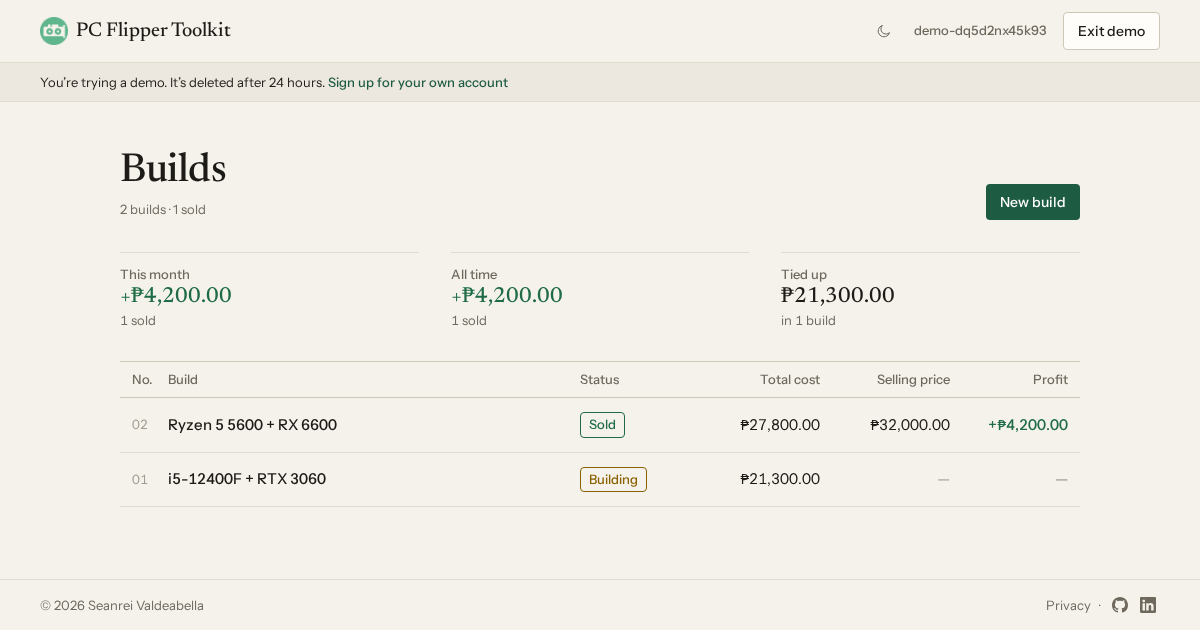
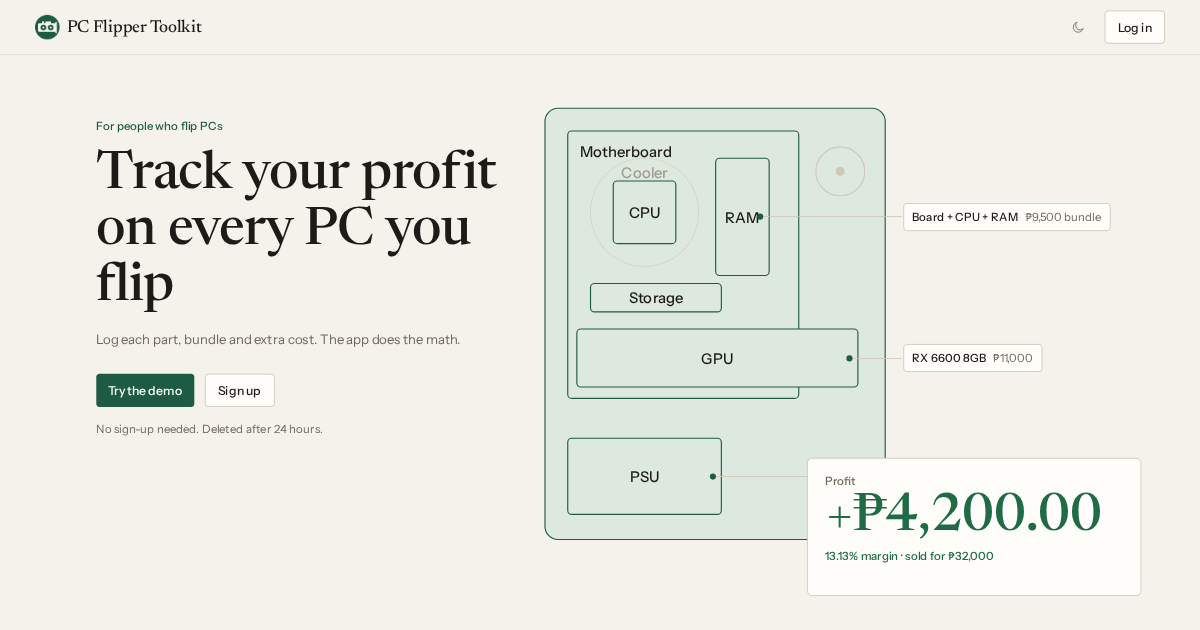
feat(share): show the landing page on the share card, in its words (#124)
Commits:
- feat(share): show the landing page on the share card, in its words

diff --git a/frontend/index.html b/frontend/index.html
@@ -3,8 +3,18 @@
   <head>
     <meta charset="UTF-8" />
     <!-- The tab follows the browser's theme, not the header button. -->
-    <link rel="icon" type="image/png" href="/logo-light.png" media="(prefers-color-scheme: light)" />
-    <link rel="icon" type="image/png" href="/logo-dark.png" media="(prefers-color-scheme: dark)" />
+    <link
+      rel="icon"
+      type="image/png"
+      href="/logo-light.png"
+      media="(prefers-color-scheme: light)"
+    />
+    <link
+      rel="icon"
+      type="image/png"
+      href="/logo-dark.png"
+      media="(prefers-color-scheme: dark)"
+    />
     <meta name="viewport" content="width=device-width, initial-scale=1.0" />
     <link rel="preconnect" href="https://fonts.googleapis.com" />
     <link rel="preconnect" href="https://fonts.gstatic.com" crossorigin />
@@ -19,14 +29,17 @@
          JavaScript, so every URL gets these; URLs must be absolute. -->
     <meta
       name="description"
-      content="Track the profit on every PC you flip: parts, extra costs, selling price and true profit. Try the demo, no sign-up needed."
+      content="For people who flip PCs. Log each part, bundle and extra cost, and the app does the math. Try the demo, no sign-up needed."
     />
     <meta property="og:type" content="website" />
     <meta property="og:site_name" content="PC Flipper Toolkit" />
-    <meta property="og:title" content="PC Flipper Toolkit" />
+    <meta
+      property="og:title"
+      content="PC Flipper Toolkit · Track your profit on every PC you flip"
+    />
     <meta
       property="og:description"
-      content="Track the profit on every PC you flip: parts, extra costs, selling price and true profit. Try the demo, no sign-up needed."
+      content="For people who flip PCs. Log each part, bundle and extra cost, and the app does the math. Try the demo, no sign-up needed."
     />
     <meta property="og:url" content="https://pc-flipper-toolkit.vercel.app/" />
     <meta
@@ -37,7 +50,7 @@
     <meta property="og:image:height" content="630" />
     <meta
       property="og:image:alt"
-      content="The builds list: each PC build with its status, cost, selling price and profit"
+      content="The landing page: “Track your profit on every PC you flip”, beside a sold build’s parts in its case and +₱4,200.00 profit"
     />
     <script>
       // The theme picked with the header button, applied before first paint (no flash).
@@ -49,7 +62,12 @@
     </script>
     <!-- The site's name in Google's results. Data, not a script: the CSP needs no hash. -->
     <script type="application/ld+json">
-      {"@context":"https://schema.org","@type":"WebSite","name":"PC Flipper Toolkit","url":"https://pc-flipper-toolkit.vercel.app/"}
+      {
+        "@context": "https://schema.org",
+        "@type": "WebSite",
+        "name": "PC Flipper Toolkit",
+        "url": "https://pc-flipper-toolkit.vercel.app/"
+      }
     </script>
   </head>
   <body>

diff --git a/frontend/src/csp.test.ts b/frontend/src/csp.test.ts
@@ -68,7 +68,9 @@ test("index.html has the share card's tags and its 1200×630 image", () => {
   expect(line.length).toBeLessThan(155);
   expect(line).toMatch(/Try the demo, no sign-up needed\.$/);
   expect(meta("property", "og:description")).toBe(line);
-  expect(meta("property", "og:title")).toBe("PC Flipper Toolkit");
+  expect(meta("property", "og:title")).toBe(
+    "PC Flipper Toolkit · Track your profit on every PC you flip",
+  );
   expect(meta("property", "og:type")).toBe("website");
   expect(meta("property", "og:url")).toBe(site);
   expect(meta("property", "og:image")).toBe(`${site}og-image.png`);

diff --git a/frontend/src/pages/Landing.tsx b/frontend/src/pages/Landing.tsx
@@ -20,7 +20,7 @@ const profit = formatSignedMoney(SOLD_BUILD.totals.profit);
 export function Landing() {
   return (
     <main>
-      <title>{`${SITE_NAME} · Track the profit on every PC you flip`}</title>
+      <title>{`${SITE_NAME} · Track your profit on every PC you flip`}</title>
       <link rel="canonical" href={`${SITE_URL}/`} />
 
       <div className="mx-auto max-w-[1280px] px-4 md:px-16">

diff --git a/frontend/src/titles.test.tsx b/frontend/src/titles.test.tsx
@@ -45,7 +45,7 @@ const canonicals = () =>
   );
 
 test.each([
-  ["/", "PC Flipper Toolkit · Track the profit on every PC you flip"],
+  ["/", "PC Flipper Toolkit · Track your profit on every PC you flip"],
   ["/login", "Log in · PC Flipper Toolkit"],
   ["/signup", "Sign up · PC Flipper Toolkit"],
   ["/privacy", "Privacy · PC Flipper Toolkit"],

diff --git a/docs/specs/share-card.md b/docs/specs/share-card.md
@@ -37,17 +37,17 @@ stays the source of truth for everything else. Intent confirmed in conversation 
 ### Tags (`frontend/index.html`, in `<head>`, after `<title>`)
 
 ```html
-<meta name="description" content="Track the profit on every PC you flip: parts, extra costs, selling price and true profit. Try the demo, no sign-up needed." />
+<meta name="description" content="For people who flip PCs. Log each part, bundle and extra cost, and the app does the math. Try the demo, no sign-up needed." />
 <link rel="canonical" href="https://pc-flipper-toolkit.vercel.app/" />
 <meta property="og:type" content="website" />
 <meta property="og:site_name" content="PC Flipper Toolkit" />
-<meta property="og:title" content="PC Flipper Toolkit" />
+<meta property="og:title" content="PC Flipper Toolkit · Track your profit on every PC you flip" />
 <meta property="og:description" content="(the same line as the description)" />
 <meta property="og:url" content="https://pc-flipper-toolkit.vercel.app/" />
 <meta property="og:image" content="https://pc-flipper-toolkit.vercel.app/og-image.png" />
 <meta property="og:image:width" content="1200" />
 <meta property="og:image:height" content="630" />
-<meta property="og:image:alt" content="The builds list: each PC build with its status, cost, selling price and profit" />
+<meta property="og:image:alt" content="The landing page: “Track your profit on every PC you flip”, beside a sold build’s parts in its case and +₱4,200.00 profit" />
 ```
 
 - **The line** is under 155 characters, so Google doesn't cut it, and it ends on "Try the
@@ -63,11 +63,14 @@ stays the source of truth for everything else. Intent confirmed in conversation 
 
 - 1200×630 PNG, under 1 MB (LinkedIn and Facebook both accept it; Messenger uses Facebook's
   copy).
-- A fresh screenshot, not the README's (that one is from 2026-10-27, before the summary, the
-  header logo and the row inset): the builds list of a demo account, light theme, taken at a
-  1200×630 viewport, so nothing needs cropping or scaling.
-- The demo's two sample builds and the summary are visible; nothing personal (a demo
-  username like `demo-…` in the header is fine).
+- **Since 2026-11-21: the landing page's first screen** (it was the builds list), so the card
+  shows what a visitor lands on. Logged out, light theme: the heading, the line, Try the demo
+  and the case with the sold build's parts and its profit.
+- Taken from the running app, not drawn: the page at 1371×720 (the 1200×630 shape at the
+  page's 720px design height, so the hero isn't stacked) with a device scale of 1200/1371, so
+  the PNG comes out at 1200×630 with nothing cropped. Retake it when the hero changes.
+- **The words** follow the landing page: its title for `og:title`, and its label and line,
+  ending on the demo, for the description.
 
 ### `frontend/public/robots.txt`
 

diff --git a/docs/specs/landing-page.md b/docs/specs/landing-page.md
@@ -45,7 +45,7 @@ confirmed in conversation on 2026-11-21. Replaces two backlog entries ("A landin
 
 | Path | Title | Indexed |
 |---|---|---|
-| `/` logged out | `PC Flipper Toolkit · Track the profit on every PC you flip` | yes, canonical `/` |
+| `/` logged out | `PC Flipper Toolkit · Track your profit on every PC you flip` | yes, canonical `/` |
 | `/` logged in | `Builds · PC Flipper Toolkit` | (Google is never logged in) |
 | `/builds/:id` | `<build name> · PC Flipper Toolkit` | no |
 | `/privacy` | `Privacy · PC Flipper Toolkit` | yes, canonical `/privacy` |
@@ -102,8 +102,8 @@ changes often.)
 
 ### GitHub and Search Console (the author's part, no code)
 
-- **The repo:** its description becomes the meta description's line ("Track the profit on every
-  PC you flip…"), with `pc-flipper`, `profit-tracker` and `pc-building` added to its topics.
+- **The repo:** its description becomes the meta description's line ("For people who flip PCs.
+  Log each part…"), with `pc-flipper`, `profit-tracker` and `pc-building` added to its topics.
   Changed with `gh repo edit` once the author says yes.
 - **Search Console**, after the deploy: submit `sitemap.xml`, inspect `/` and press **Request
   indexing**, then do the same for `/privacy`.
